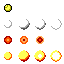
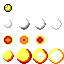
Plant enemy

diff --git a/src/enemy.ts b/src/enemy.ts
@@ -1435,11 +1435,119 @@ export class SpikeSeal extends Seal {
 }
 
 
+export class Plant extends Enemy {
+
+
+    private baseSpeed : number;
+    private shootTimer : number;
+    private shootWait : number;
+
+
+    constructor(x : number, y : number, entityID : number) { 
+
+        super(x, y+1, 14, entityID, true);
+
+        this.spr.setFrame(0, this.spr.getRow());
+
+        this.collisionBox.x = 4;
+        this.center = new Vector2(0, 3);
+        this.hitbox = new Vector2(8, 10);
+
+        this.knockDownYOffset = 4;
+
+        this.baseSpeed = 0;
+
+        this.shootTimer = 0;
+        this.shootWait = 0;
+
+        this.respawnEvent();
+    }
+
+
+    protected respawnEvent() {
+
+        const SPEED = 0.25;
+
+        this.shootTimer = 0;
+        this.shootWait = 0;
+
+        this.baseSpeed = this.dir * SPEED;
+    }
+
+
+    private shootBullet(event : CoreEvent) {
+
+        const SPEED_Y = -2.5;
+        const SPEED_X = 0.75;
+
+        for (let i = -1; i <= 1; i += 2) {
+
+            this.projectileCb(this.pos.x, this.pos.y-2,
+               SPEED_X * i, SPEED_Y, true, 1, false);
+        }
+    }
+
+
+    protected updateAI(event : CoreEvent) { 
+
+        const ANIM_SPEED = 7;
+        const SHOOT_TIME = 120;
+        const SHOOT_WAIT = 30;
+
+        if (this.shootWait > 0) {
+
+            this.shootWait -= event.step;
+            return;
+        }
+
+        if ((this.shootTimer += event.step) >= SHOOT_TIME) {
+
+            this.shootTimer = 0;
+            this.shootWait = SHOOT_WAIT;
+
+            this.target.x = 0;
+            this.speed.x = 0;
+
+            this.spr.setFrame(4, this.spr.getRow());
+
+            this.shootBullet(event);
+
+            return;
+        }
+
+        this.spr.animate(this.spr.getRow(), 
+            0, 3, ANIM_SPEED, event.step);
+
+        if (this.oldCanJump && !this.canJump) {
+
+            this.pos.x -= this.speed.x * event.step;
+
+            this.baseSpeed *= -1;
+        }
+
+        this.target.x = this.baseSpeed;
+        this.speed.x = this.target.x;
+    }
+
+
+    protected wallCollisionEvent(dir : number, event : CoreEvent) {
+
+        this.dir = -dir;
+        this.baseSpeed = Math.abs(this.baseSpeed) * this.dir;
+
+        this.target.x = this.baseSpeed;
+        this.speed.x = this.target.x;
+    }
+
+}
+
+
 const ENEMY_TYPES = [
     Slime, SpikeSlime, Turtle, 
     Seal, SpikeTurtle, Apple, 
     Imp, Mushroom, FakeBlock, 
     Spinner, Fish, Eye,
-    FaceRight, FaceLeft, SpikeSeal];
+    FaceRight, FaceLeft, SpikeSeal,
+    Plant];
 
 export const getEnemyType = (index : number) : Function => ENEMY_TYPES[clamp(index, 0, ENEMY_TYPES.length-1)];
